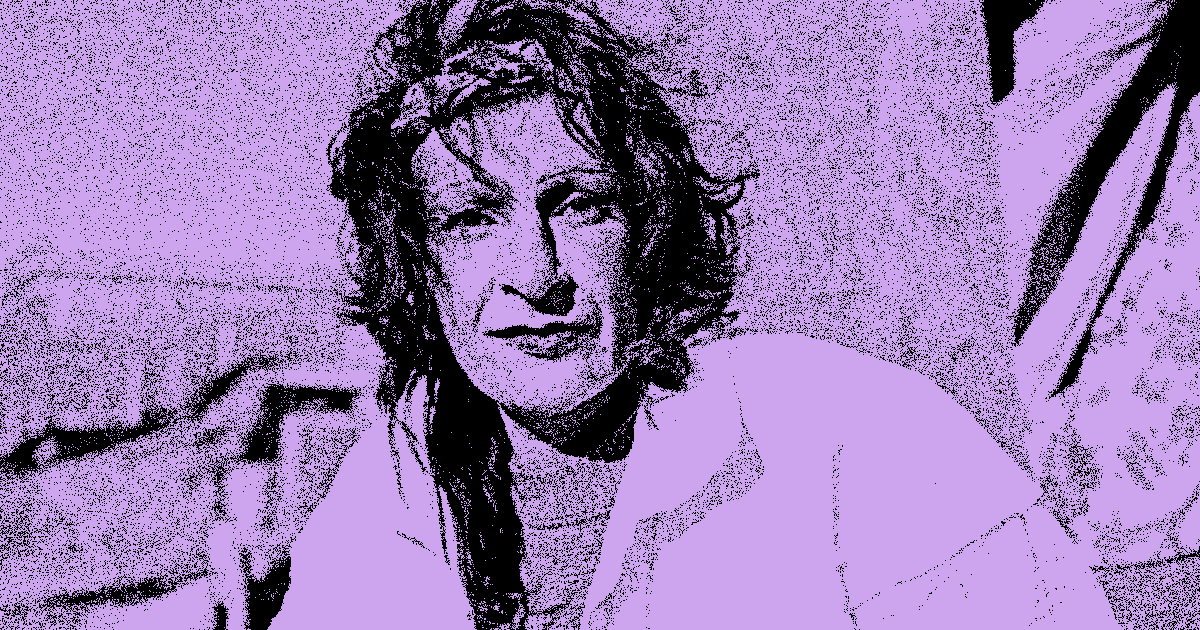
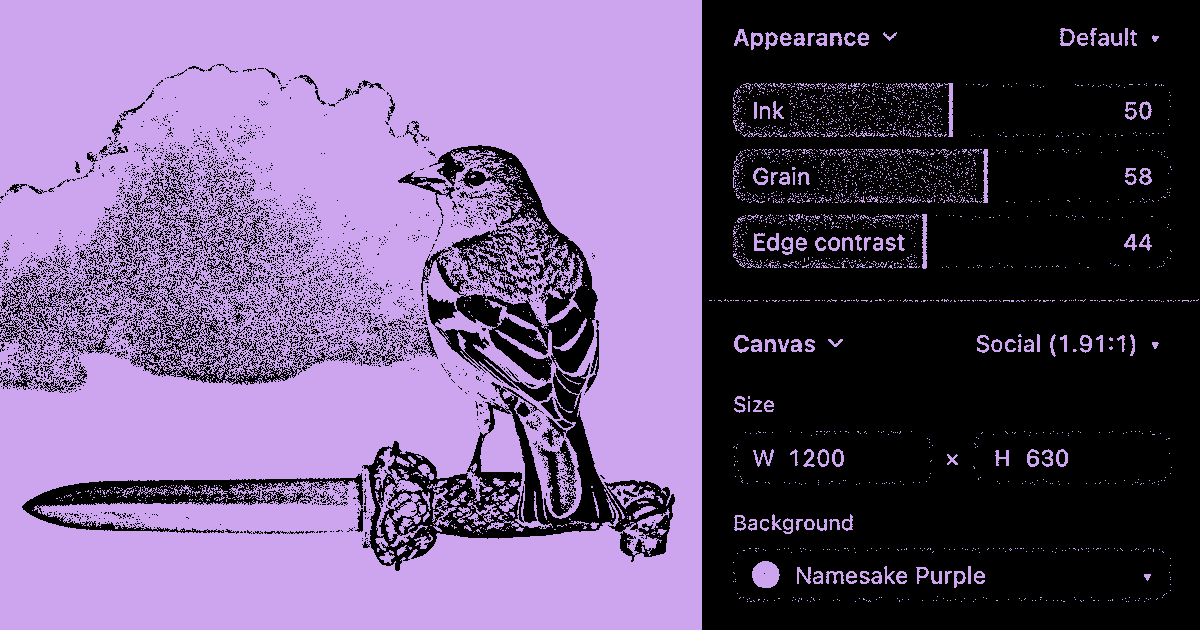
Update Open Graph image (#19)

diff --git a/src/components/AboutDialog.tsx b/src/components/AboutDialog.tsx
@@ -15,8 +15,7 @@ export function AboutDialog({ isOpen, onOpenChange }: AboutDialogProps) {
       className={styles.window}
       contentClassName={styles.about}
     >
-      <DialogHeading>Photocopy</DialogHeading>
-      <p className={styles.version}>Version {version}</p>
+      <DialogHeading>Photocopy v{version}</DialogHeading>
       <p>Create photocopy-style collages.</p>
       <p className={styles.credit}>
         By{" "}
@@ -33,6 +32,9 @@ export function AboutDialog({ isOpen, onOpenChange }: AboutDialogProps) {
         </a>
         .
       </p>
+      <a className={styles.credit} href="https://namesake.fyi/donate">
+        Donate to support Namesake
+      </a>
     </Dialog>
   );
 }

diff --git a/src/components/AboutDialog.module.css b/src/components/AboutDialog.module.css
@@ -8,8 +8,6 @@
   gap: 6px;
   align-items: center;
   padding: 24px;
-  font-size: 12px;
-  text-align: center;
 
   p {
     max-width: 30ch;
@@ -19,10 +17,6 @@
   a {
     color: var(--text);
   }
-}
-
-.version {
-  margin-block-end: 8px;
 }
 
 .credit {

diff --git a/src/components/ui/Menu.module.css b/src/components/ui/Menu.module.css
@@ -35,6 +35,10 @@
 
     &[data-disabled] {
       color: var(--text-disabled);
+
+      kbd {
+        color: var(--text-disabled);
+      }
     }
   }
 

diff --git a/src/components/ui/Dialog.module.css b/src/components/ui/Dialog.module.css
@@ -27,7 +27,7 @@
   }
 
   .heading {
-    font-size: 15px;
+    font-size: 16px;
     color: var(--text);
   }
 
